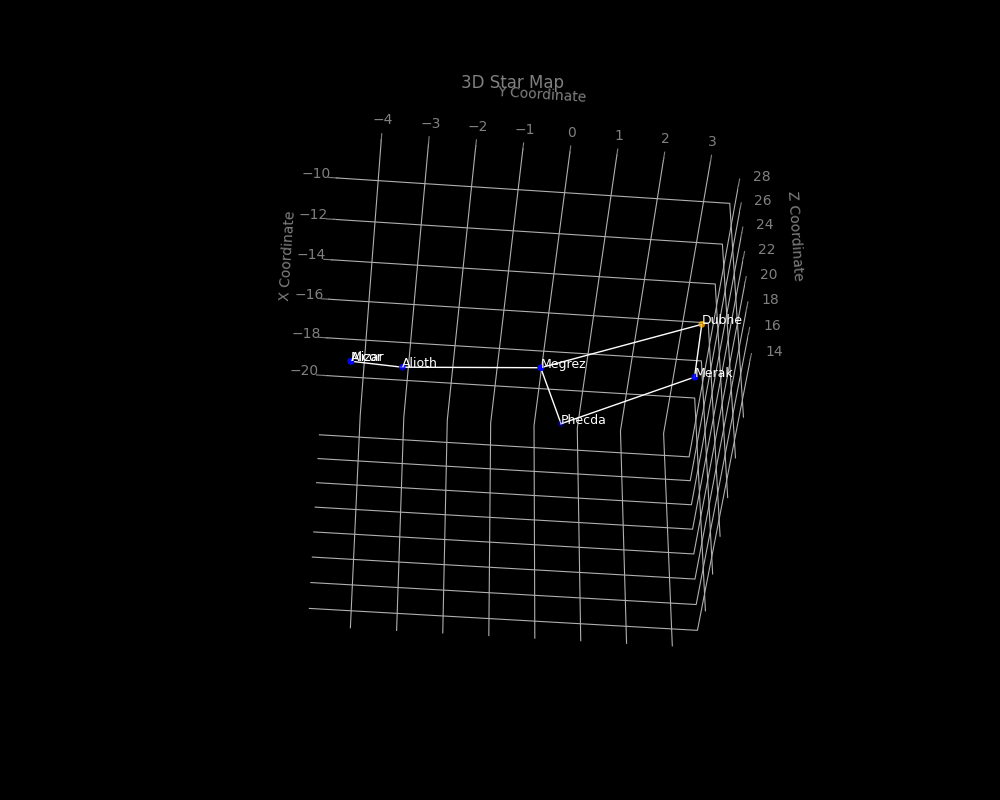
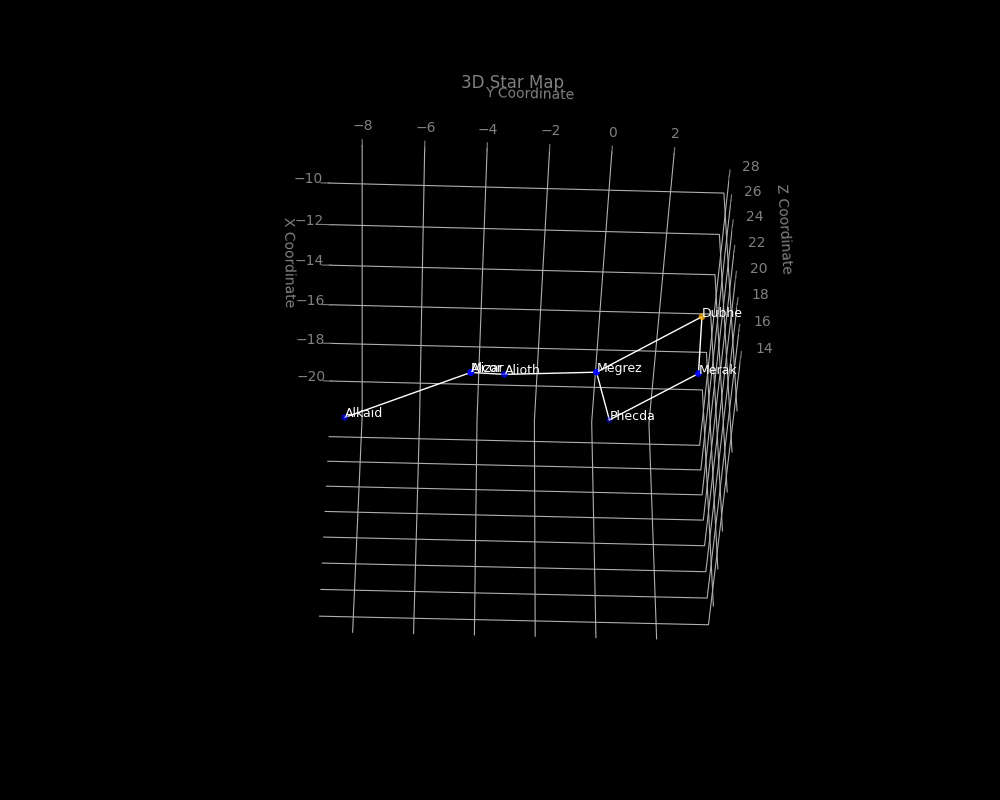
add alkaid

Changed region(s): [[0.279, 0.1562, 0.806, 0.8125], [0.496, 0.0938, 0.589, 0.125]]

diff --git a/src/big_dipper.py b/src/big_dipper.py
@@ -18,14 +18,15 @@ df = load_data(data_file_path)
 df = check_and_convert_types(df)
 
 # Big Dipper stars in Ursa Major
-big_dipper_stars = ['79Zet UMa', '77Eps UMa', '69Del UMa', '64Gam UMa', '48Bet UMa', '50Alp UMa']
-ordered_star_names = ['Mizar', 'Alcor', 'Alioth', 'Megrez', 'Dubhe', 'Merak', 'Phecda']
+big_dipper_stars = ['79Zet UMa', '77Eps UMa', '69Del UMa', '64Gam UMa', '48Bet UMa', '50Alp UMa', '85Eta UMa']
+ordered_star_names = ['Alkaid', 'Mizar', 'Alcor', 'Alioth', 'Megrez', 'Dubhe', 'Merak', 'Phecda']
 
 # filter the df to include only the Big Dipper stars
 df = df[df['alt_name'].isin(big_dipper_stars)]
 
 # map alternative names to common names
 name_mapping = {
+    '85Eta UMa': 'Alkaid',    
     '79Zet UMa': 'Mizar',
     '77Eps UMa': 'Alioth',
     '69Del UMa': 'Megrez',

diff --git a/src/plotter.py b/src/plotter.py
@@ -55,7 +55,7 @@ def plot_3d_scatter(x, y, z, rgb, star_names=None):
     ax.zaxis.pane.set_edgecolor('black')
 
     # viewing angle (elevation, azimuth)
-    ax.view_init(-44, -5)
+    ax.view_init(-43, -2)
 
     # show plot
     plt.show()
